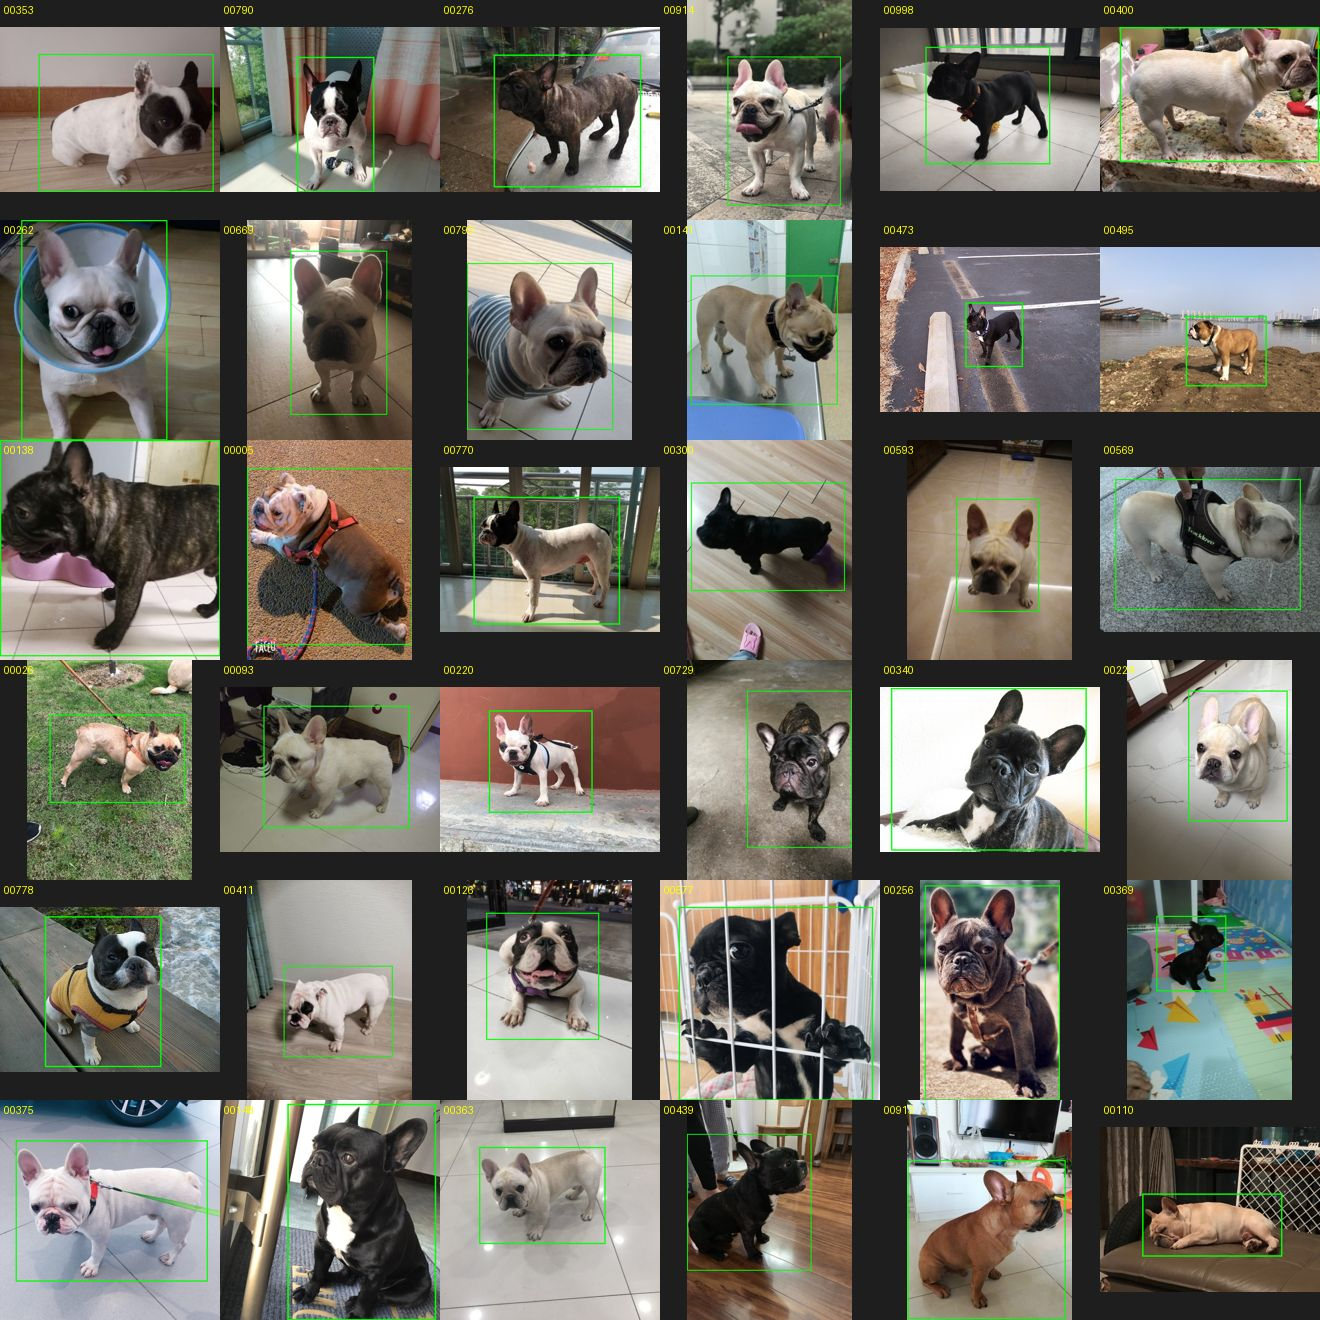
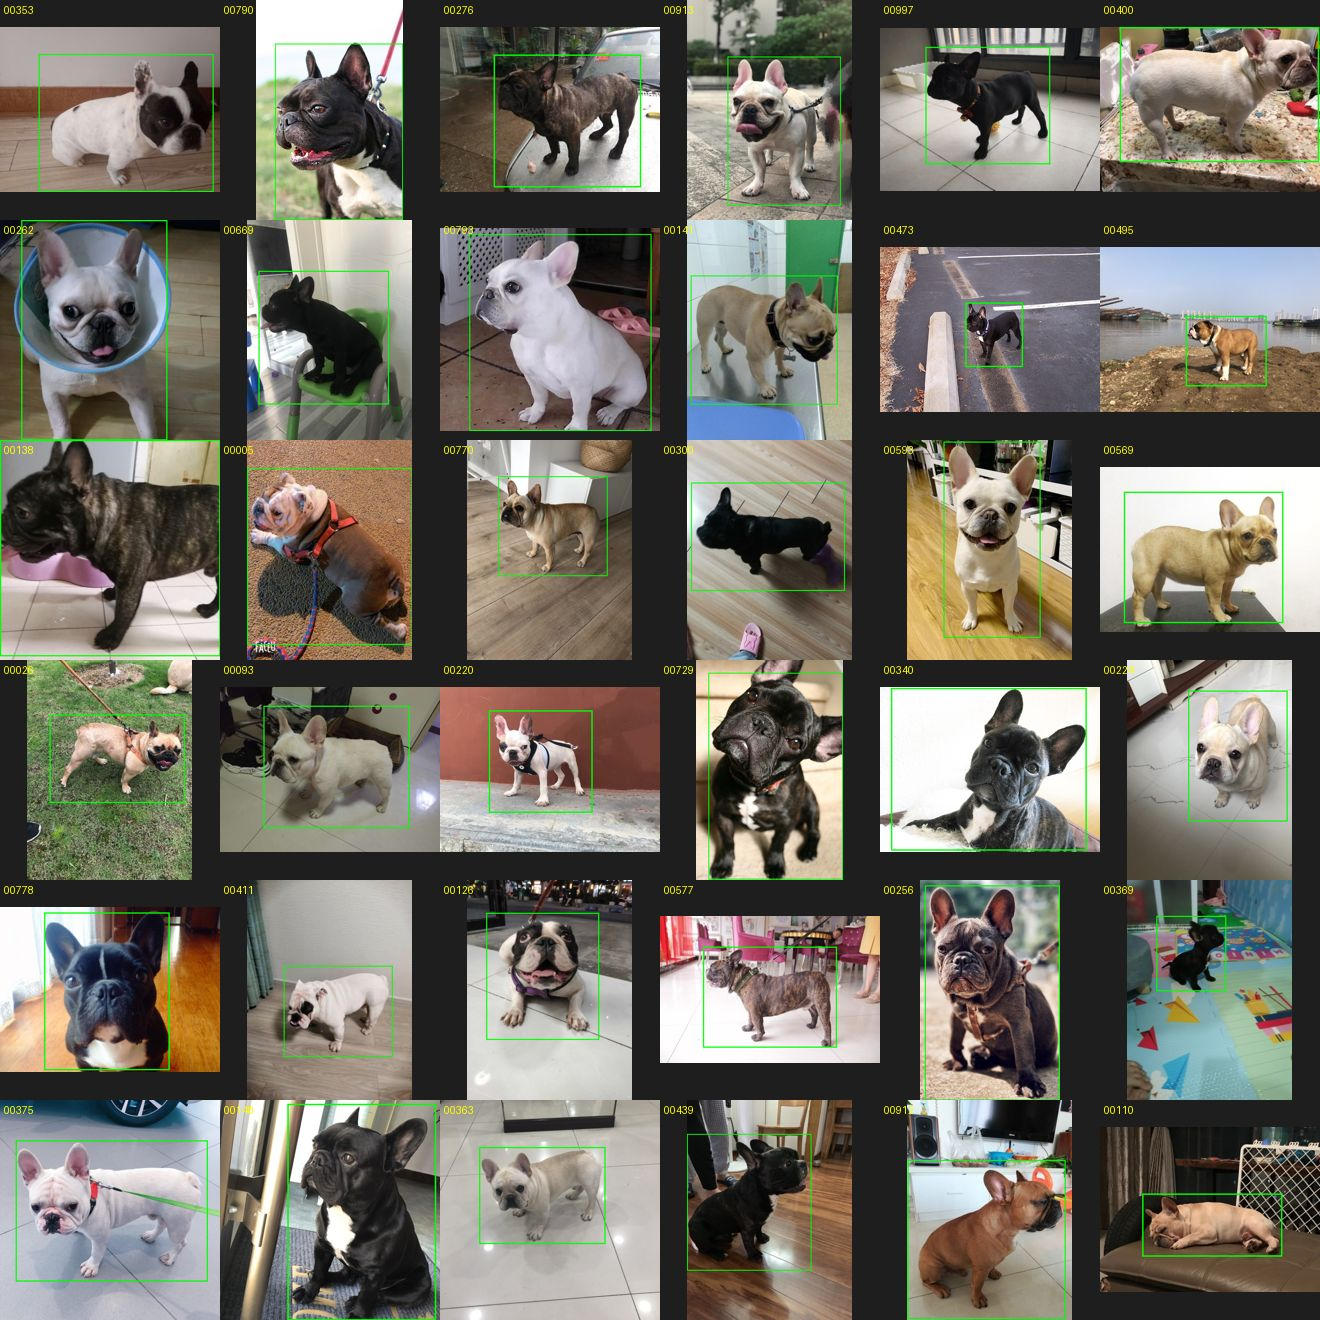
Stream zip volume splitting to avoid MemoryError; full build 34877 images
Claude-Session: https://claude.ai/code/session_01Cpg1ogsgbYWuMQe65dJVih

diff --git a/src/package.py b/src/package.py
@@ -41,23 +41,29 @@ def make_zip(cfg: dict) -> list[Path]:
             if p.is_file():
                 z.write(p, Path(name) / p.relative_to(CLEAN))
     sums = [f"{sha256(full)}  {full.name}"]
-    parts = []
-    with open(full, "rb") as f:
-        i = 1
-        while True:
-            buf = f.read(vol)
-            if not buf:
-                break
-            part = DIST / f"{name}.zip.{i:03d}"
-            part.write_bytes(buf)
-            parts.append(part)
-            sums.append(f"{sha256(part)}  {part.name}")
-            i += 1
-    if len(parts) == 1:  # 只有一卷时直接给普通 zip，Windows 双击即可打开
-        parts[0].unlink()
-        sums = [sums[0]]
-        parts = [full]
+    if full.stat().st_size <= vol:
+        parts = [full]  # 不超过分卷大小：直接给普通 zip
     else:
+        parts = []
+        with open(full, "rb") as f:  # 流式切分，不把整卷读进内存
+            i, done = 1, False
+            while not done:
+                part = DIST / f"{name}.zip.{i:03d}"
+                written = 0
+                with open(part, "wb") as out:
+                    while written < vol:
+                        buf = f.read(min(1 << 24, vol - written))
+                        if not buf:
+                            done = True
+                            break
+                        out.write(buf)
+                        written += len(buf)
+                if written == 0:
+                    part.unlink()
+                    break
+                parts.append(part)
+                sums.append(f"{sha256(part)}  {part.name}")
+                i += 1
         full.unlink()  # 只保留分卷，整包哈希保留在 SHA256SUMS 里
     (DIST / "SHA256SUMS.txt").write_text("\n".join(sums) + "\n")
     total = sum(p.stat().st_size for p in parts)

diff --git a/reports/report.md b/reports/report.md
@@ -1,6 +1,6 @@
 # 中型犬数据采集报告
 
-生成时间：2026-11-05 06:10
+生成时间：2026-11-05 06:37
 
 ## 数量漏斗
 
@@ -19,22 +19,22 @@
 | chow_chow | 松狮 | 525 | 0 | 10 | 515 | 332 | 2 | 272 | 272 | 272 |
 | english_bulldog | 英国斗牛犬 | 0 | 0 | 0 | 0 | 0 | 0 | 0 | 0 | 0 |
 | english_cocker | 英国可卡 | 445 | 0 | 18 | 427 | 278 | 0 | 271 | 271 | 271 |
-| french_bulldog | 法国斗牛犬 | 1280 | 0 | 74 | 1206 | 1066 | 0 | 1053 | 1053 | 1053 |
+| french_bulldog | 法国斗牛犬 | 1280 | 0 | 74 | 1206 | 1065 | 1 | 1052 | 1052 | 1052 |
 | keeshond | 荷兰毛狮犬 | 381 | 0 | 62 | 319 | 183 | 0 | 134 | 134 | 134 |
 | mixed_medium | 中型混种犬 | 0 | 0 | 0 | 0 | 0 | 0 | 0 | 0 | 0 |
-| openimages_dog | OpenImages狗（不分品种） | 3000 | 0 | 4 | 2996 | 2993 | 3 | 2993 | 2993 | 2000 |
-| pembroke_corgi | 柯基 | 3450 | 0 | 160 | 3290 | 2980 | 0 | 2949 | 2949 | 2000 |
+| openimages_dog | OpenImages狗（不分品种） | 23260 | 0 | 11 | 23249 | 23221 | 6 | 23221 | 23221 | 23221 |
+| pembroke_corgi | 柯基 | 3450 | 0 | 160 | 3290 | 2979 | 1 | 2948 | 2948 | 2000 |
 | shar_pei | 沙皮犬 | 0 | 0 | 0 | 0 | 0 | 0 | 0 | 0 | 0 |
 | shetland_sheepdog | 喜乐蒂 | 431 | 0 | 27 | 404 | 272 | 0 | 264 | 264 | 264 |
 | shiba_inu | 柴犬 | 1043 | 0 | 33 | 1010 | 1004 | 0 | 1004 | 1004 | 1004 |
-| siberian_husky | 哈士奇 | 1352 | 0 | 52 | 1300 | 1133 | 1 | 1088 | 1088 | 1088 |
+| siberian_husky | 哈士奇 | 1352 | 0 | 52 | 1300 | 1132 | 2 | 1088 | 1088 | 1088 |
 | springer_spaniel | 史宾格犬 | 435 | 0 | 54 | 381 | 235 | 1 | 229 | 229 | 229 |
 | staffordshire_bull_terrier | 斯塔福梗 | 358 | 0 | 60 | 298 | 169 | 0 | 162 | 162 | 162 |
 | standard_schnauzer | 标准雪纳瑞 | 375 | 0 | 111 | 264 | 164 | 0 | 144 | 144 | 144 |
 | whippet | 惠比特犬 | 421 | 0 | 72 | 349 | 223 | 0 | 196 | 196 | 196 |
-| **合计** | | 21092 | 0 | 1198 | 19894 | 17567 | 10 | 17252 | 17252 | 13657 |
+| **合计** | | 41352 | 0 | 1205 | 40147 | 37792 | 16 | 37478 | 37478 | 34877 |
 
-划分：train 10925 / val 1370 / test 1362
+划分：train 27901 / val 3491 / test 3485
 
 ## 下载状态
 
@@ -49,11 +49,11 @@ HTTP 状态计数：
 ## 耗时
 
 - crawl+clean: 0.0 分钟
-- dedup: 0.2 分钟
-- detect: 2.7 分钟
+- dedup: 0.6 分钟
+- detect: 2.8 分钟
 - clip: 0.0 分钟
-- split: 0.9 分钟
-- total_wall: 3.8 分钟
+- split: 2.6 分钟
+- total_wall: 6.0 分钟
 
 ## 抽检拼图
 
